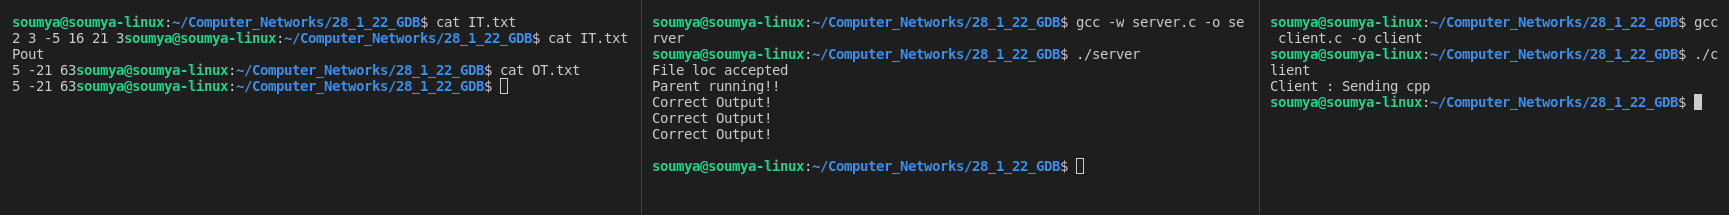
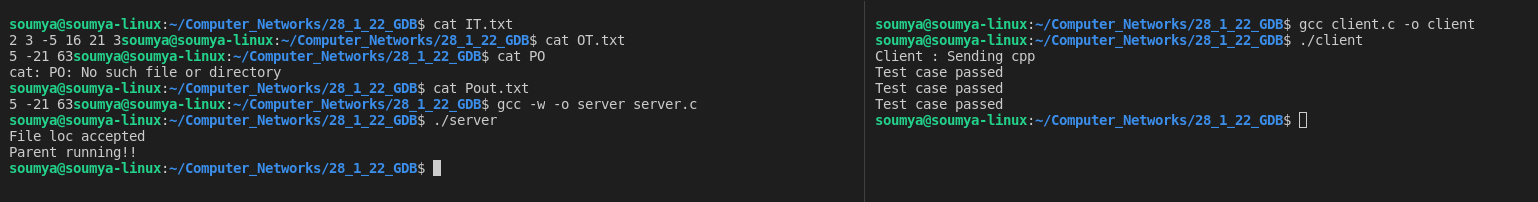
GDB Server

diff --git a/28_1_22_GDB/server.c b/28_1_22_GDB/server.c
@@ -85,17 +85,21 @@ int main()
         int n1 = read(pout_fd,&buf,1);
         int n2 = read(out_fd,&msg,1);
 
+        char snd[1024];
+
         while(n1 != 0)
         {
             if(buf == msg)
             {
                 if(buf == ' ')
                 {
-                    printf("Correct Output!\n");
+                    sprintf(snd,"Test case passed\n");
+                    send(nsfd,snd,sizeof(snd),0);
                 }
             }
             else{
-                printf("wrong output!");
+                sprintf(snd,"Test case failed \n");
+                send(nsfd,snd,sizeof(snd),0);
                 while(1)
                 {
                     n1 = read(pout_fd,&buf,1);
@@ -112,12 +116,15 @@ int main()
 
             if(n1 == 0 && buf == msg)
                 {
-                    printf("Correct Output!\n");
+                    sprintf(snd,"Test case passed\n");
+                    send(nsfd,snd,sizeof(snd),0);
                     break;
                 }
             if(n2 == 0) break;
         }
-        printf("\n");
+
+        sprintf(snd,"Com");
+        send(nsfd,snd,sizeof(snd),0);
 
     }
 

diff --git a/28_1_22_GDB/client.c b/28_1_22_GDB/client.c
@@ -31,6 +31,18 @@ int main()
     sprintf(buff, "./P.cpp");
     send(sfd,buff,sizeof(buff),0);
 
+    
+    int size;
+
+    for(;;)
+    {
+        int size = recv(sfd, buff, MAX, 0);
+        // printf("%c",buff[0]);
+        if(strncmp(buff,"Com",3)== 0) break;
+        printf("%s",buff);
+        
+    }
+
     close(sfd);
     return 0;
 }
